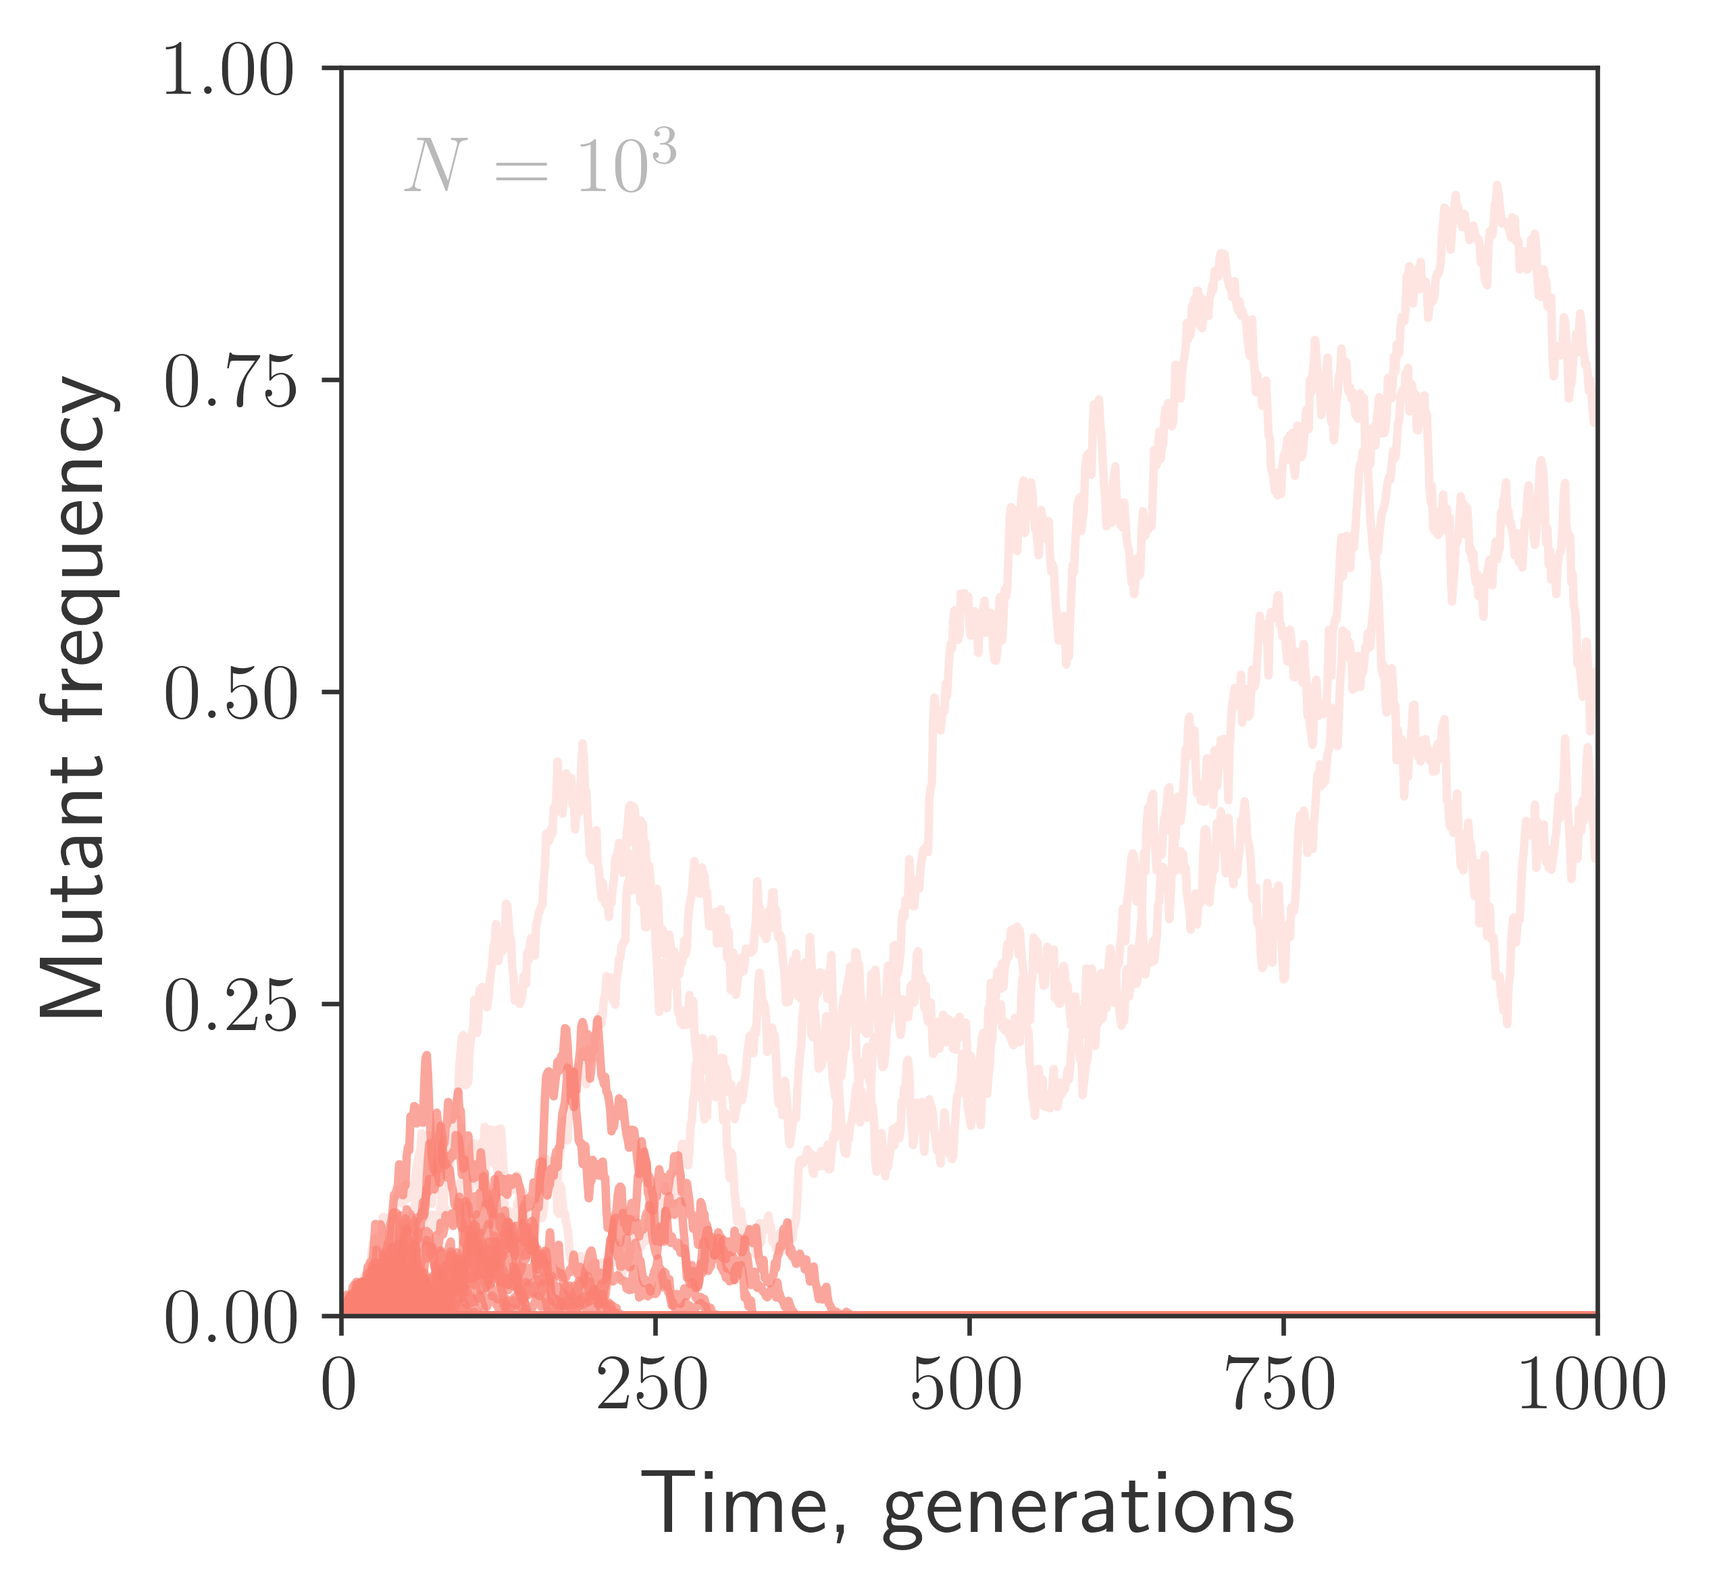
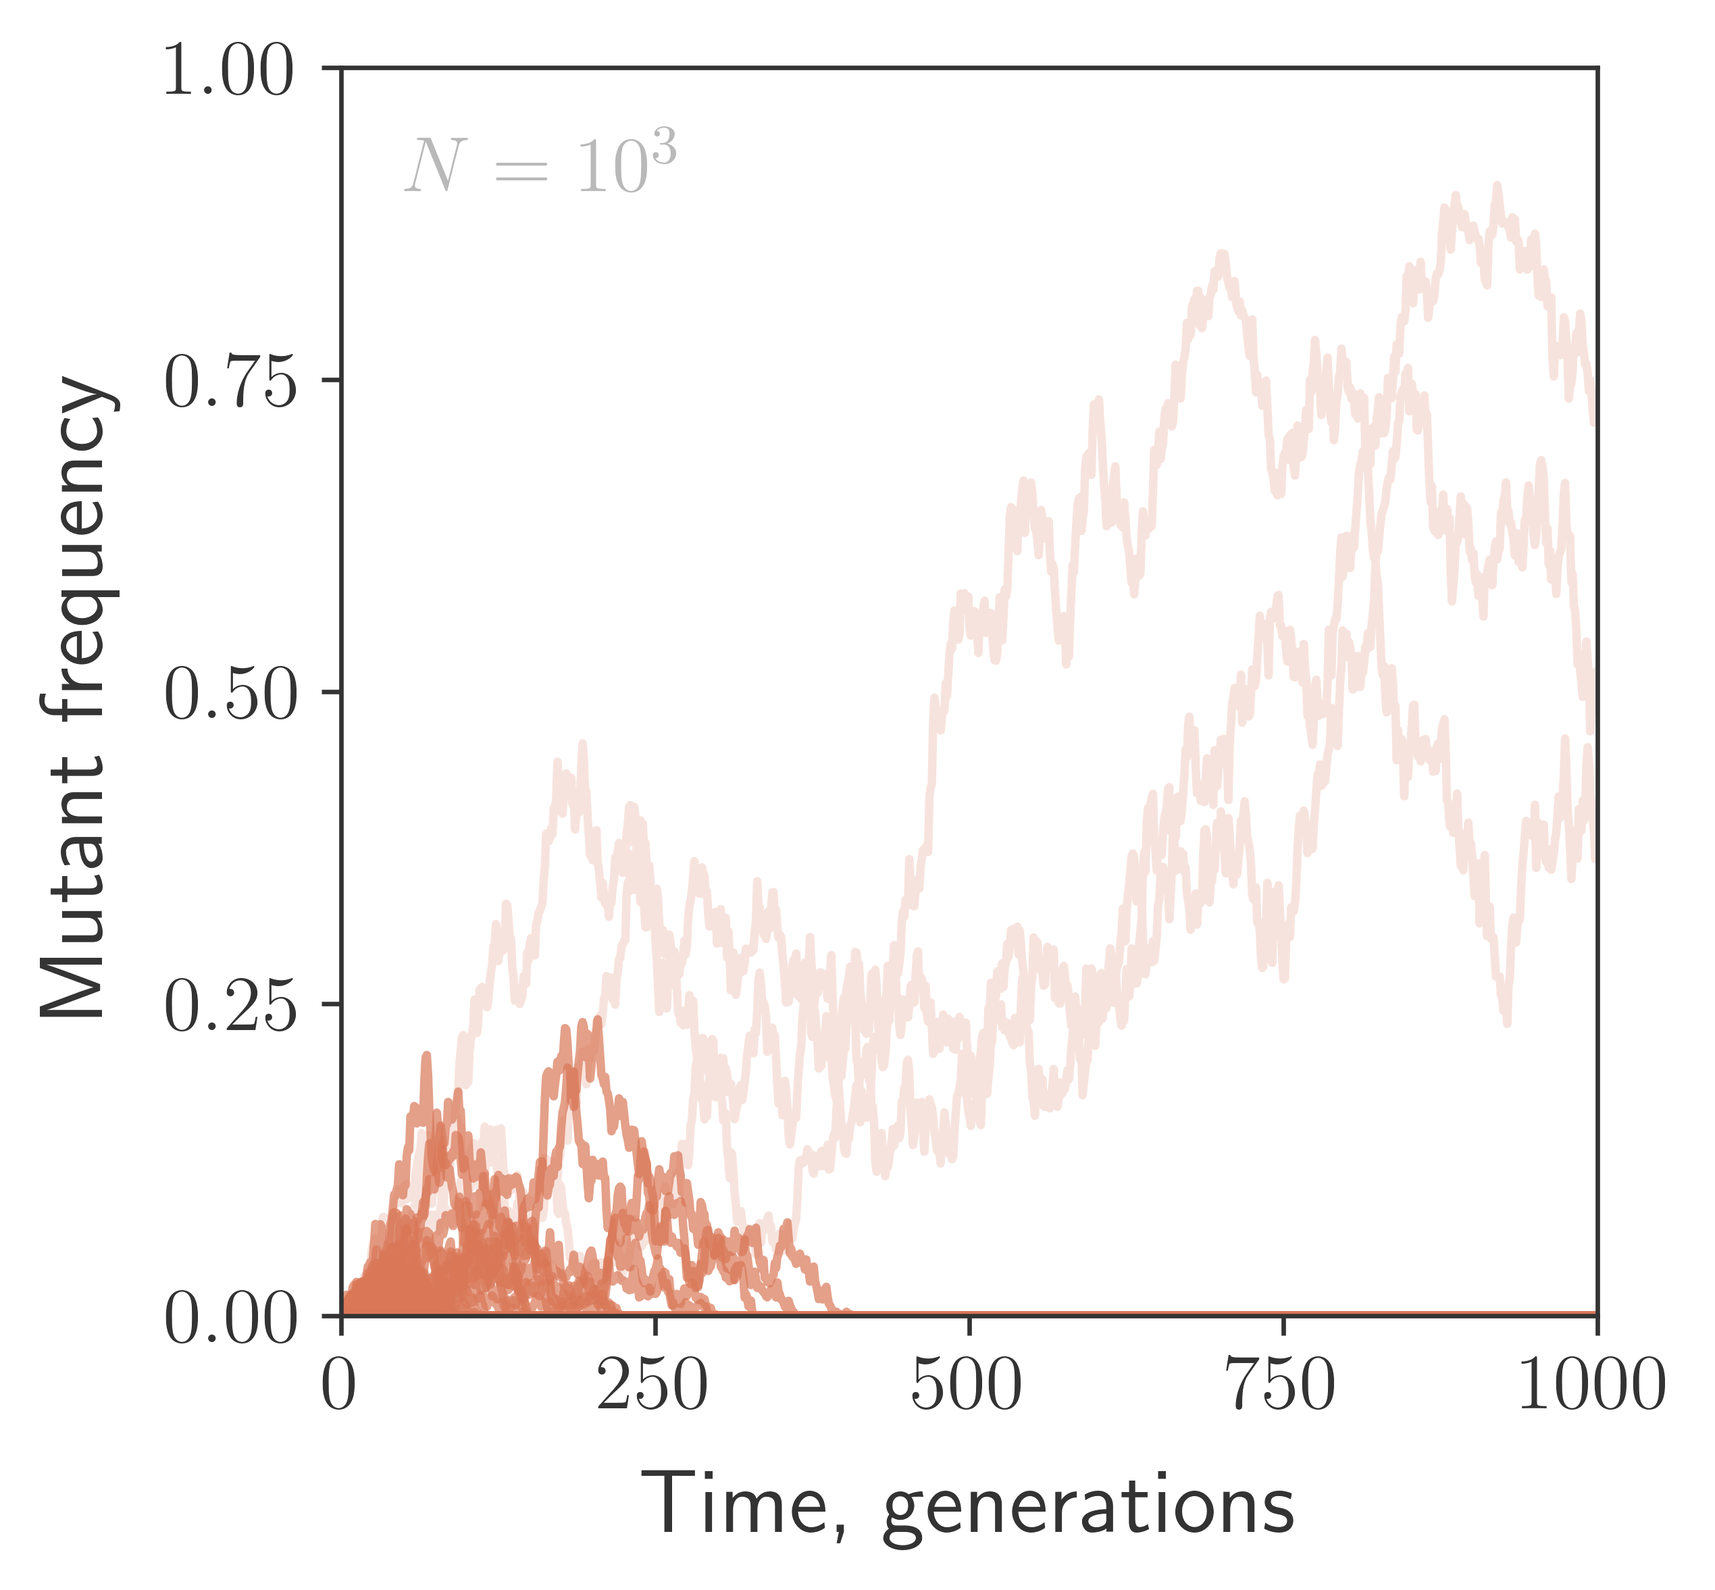
Site accent: Claude clay (#d97757) instead of the pink
Links, menu, buttons, the cursor, the defense page, the genome note, and the
heterozygosity figure (recoloured in place; the notebook draws it in clay too).
The temporary colour test page is gone.

Changed region(s): [[0.1867, 0.6512, 0.4667, 0.8373]]

diff --git a/phd-defense/index.html b/phd-defense/index.html
@@ -6,12 +6,12 @@
 <meta name="robots" content="noindex, nofollow">   <!-- keeps the page out of search results; delete this line to let search engines list it -->
 <title>Anastasia Lyulina | PhD Defense</title>
 <meta name="description" content="Anastasia Lyulina's PhD defense in Biology at Stanford University — join in person or online.">
-<link rel="stylesheet" type="text/css" href="/css/main.css?v=3">   <!-- bump v= when main.css changes, so phones fetch the new one instead of a saved copy -->
+<link rel="stylesheet" type="text/css" href="/css/main.css?v=4">   <!-- bump v= when main.css changes, so phones fetch the new one instead of a saved copy -->
 <link rel="icon" href="/img/bacteria.ico">
 <script>document.documentElement.classList.add('js');</script>
 <style>
   /* draft highlight on all text that may still change — delete these two rules to remove every highlight at once */
-  .ph { background: #fef2f1; border-radius: 4px; padding: 0 4px; -webkit-box-decoration-break: clone; box-decoration-break: clone; }
+  .ph { background: #fbefea; border-radius: 4px; padding: 0 4px; -webkit-box-decoration-break: clone; box-decoration-break: clone; }
   .ph .ph { background: none; padding: 0; }   /* no double highlight where one sits inside another */
 
   .lead { margin-bottom: 44px; }
@@ -21,11 +21,11 @@
   .thesis h2 { font-size: 24px; line-height: 1.25em; margin: 0 0 12px; }
   /* <button> pills look exactly like the site's link pills */
   .tabs .note-link, .pw, #replay, #skip, #lang { border: 0; margin: 0; font-family: 'Avenir', 'Avenir Next', 'Helvetica', 'Arial', 'Sans-Serif'; font-size: 0.95em;
-                     line-height: inherit; cursor: url("/img/cursor_pink.png"), auto !important; }
+                     line-height: inherit; cursor: url("/img/cursor_clay.png"), auto !important; }
   .tabs, .replay { font-size: 16px; font-family: 'Avenir', 'Avenir Next', 'Helvetica', 'Arial', 'Sans-Serif'; }
   .tabs { display: flex; flex-wrap: wrap; align-items: baseline; row-gap: 0.5em; }   /* room between the rows when the buttons wrap on small screens */
   .tabs .note-link { margin-right: 0.6em; }
-  .tabs .note-link[aria-expanded="true"] { background-color: #fef2f1; color: #fa8072; }   /* the open one stays pink, like the current page in the menu */
+  .tabs .note-link[aria-expanded="true"] { background-color: #fbefea; color: #d97757; }   /* the open one stays highlighted, like the current page in the menu */
   .tabs .full-text { font-size: 0.95em; margin-left: 0.2em; white-space: nowrap; }   /* same size as the pills */
   .panel { margin-top: 18px; animation: fade .35s ease; }
   @keyframes fade { from { opacity: 0; } to { opacity: 1; } }
@@ -40,7 +40,7 @@
   .rows .note-date.two-line { line-height: 1.1em; }   /* keeps the two-line label from opening a big gap below it */
   .rows .note-link { margin-left: 0.5em; margin-right: 0; }
   .rows .pw { font-size: 0.95em; margin-left: 0.5em; }   /* same gap as the other pills */
-  @media (hover: none) { .note-link:hover { background-color: #f4f4f4; color: #404040; } }   /* on touch screens a tapped button does not stay pink */
+  @media (hover: none) { .note-link:hover { background-color: #f4f4f4; color: #404040; } }   /* on touch screens a tapped button does not stay highlighted */
 
   /* the page opens with the animation, sized to fit the window under the menu; once the beads have landed the
      text fades in above them and the animation's box closes up to a strip around the row, with replay below it */
@@ -63,12 +63,12 @@
   .lang-switch { display: none; font-size: 16px; font-family: 'Avenir', 'Avenir Next', 'Helvetica', 'Arial', 'Sans-Serif'; margin: 0 0 24px; }
   .lang-switch.shown { display: block; animation: gate-in .6s ease; }
   .lang-switch #lang { margin-right: 0; line-height: normal; }   /* same height as the other pills (it would otherwise take the paragraph's taller line spacing) */
-  #lang[aria-pressed="true"] { background-color: #fef2f1; color: #fa8072; }   /* stays pink while the page is in Russian, like an open abstract pill */
+  #lang[aria-pressed="true"] { background-color: #fbefea; color: #d97757; }   /* stays highlighted while the page is in Russian, like an open abstract pill */
   @keyframes gate-in { from { opacity: 0; } }
   .gate > div + div { margin-top: 0.5em; }   /* a little room between the two lines */
   .gate .note-link, .no-js .note-link { margin-right: 0; }
   .gate-label { color: #333; margin-left: 0.5em; }
-  #unlock { border: 0; margin: 0; font-family: 'Avenir', 'Avenir Next', 'Helvetica', 'Arial', 'Sans-Serif'; font-size: 0.95em; line-height: inherit; cursor: url("/img/cursor_pink.png"), auto !important; }
+  #unlock { border: 0; margin: 0; font-family: 'Avenir', 'Avenir Next', 'Helvetica', 'Arial', 'Sans-Serif'; font-size: 0.95em; line-height: inherit; cursor: url("/img/cursor_clay.png"), auto !important; }
   #unlock[hidden], #unlock-form[hidden] { display: none; }
   #unlock-form { display: inline; }
   /* the password field is drawn like the site's pills (.note-link in main.css), and grows with what is typed */
@@ -76,8 +76,8 @@
                        width: 7em; padding: 1px 4px; box-sizing: content-box; margin: 0; border: 0; border-radius: 4px; background: #f4f4f4; color: #404040; outline: none;
                        -webkit-appearance: none; appearance: none; text-overflow: clip; }   /* no phone-specific field styling or extra inner padding */
   #unlock-form input::placeholder { color: #404040; opacity: 1; }
-  #unlock-form input:hover, #unlock-form input:focus { background: #fef2f1; color: #fa8072; }
-  #unlock-form input:hover::placeholder, #unlock-form input:focus::placeholder { color: #fa8072; }
+  #unlock-form input:hover, #unlock-form input:focus { background: #fbefea; color: #d97757; }
+  #unlock-form input:hover::placeholder, #unlock-form input:focus::placeholder { color: #d97757; }
   #unlock-form.wrong input { animation: shake .3s; }
   @keyframes shake { 25% { transform: translateX(-4px); } 75% { transform: translateX(4px); } }
   /* without JavaScript: a way to ask for the details, and the row of beads as a still picture */
@@ -282,7 +282,7 @@
   }
   addEventListener('resize', placeDots);
 
-  // по-русски (pink while chosen; click again for English): swaps the text (both languages are in the locked block) and the two public lines; not remembered, so the page always opens in English
+  // по-русски (highlighted while chosen; click again for English): swaps the text (both languages are in the locked block) and the two public lines; not remembered, so the page always opens in English
   let lang = 'en', replayStill = false;
   const setReplayLabel = () => { document.getElementById('replay').textContent = lang === 'ru' ? (replayStill ? 'посмотреть' : 'ещё раз') : (replayStill ? 'play' : 'replay'); };
   try { localStorage.removeItem('defense-lang'); } catch {}   // the page always opens in English (and forgets any choice an older version saved)
@@ -291,7 +291,7 @@
     document.documentElement.lang = l;
     document.title = l === 'ru' ? 'Анастасия Люлина | Защита диссертации' : 'Anastasia Lyulina | PhD Defense';
     const btn = document.getElementById('lang');
-    btn.setAttribute('aria-pressed', l === 'ru');   // always "по-русски": pink while chosen, click again for English
+    btn.setAttribute('aria-pressed', l === 'ru');   // always "по-русски": highlighted while chosen, click again for English
     document.querySelectorAll('[data-ru]').forEach(el => { if (!el.dataset.en) el.dataset.en = el.textContent; el.textContent = l === 'ru' ? el.dataset.ru : el.dataset.en; });
     document.querySelectorAll('[data-ru-placeholder]').forEach(el => { if (!el.dataset.enPlaceholder) el.dataset.enPlaceholder = el.placeholder; el.placeholder = l === 'ru' ? el.dataset.ruPlaceholder : el.dataset.enPlaceholder; });
     // what screen readers say (field label, animation description) follows the language too

diff --git a/css/main.css b/css/main.css
@@ -7,15 +7,15 @@ nav ul { font-size: 18px; line-height: 1.4em; font-family:'Avenir', 'Avenir Next
 nav ul li { display: inline-block; margin-right: 25px; margin-bottom: 15px}
 
 a { font-size: inherit; line-height: inherit; font-family: inherit; text-decoration: none; color: #888; }
-a:hover, a.active { text-decoration: none; color: #fa8072; }
-a { cursor: url("/img/cursor_pink.png"), auto !important; }
+a:hover, a.active { text-decoration: none; color: #d97757; }
+a { cursor: url("/img/cursor_clay.png"), auto !important; }
 
 h1 { font-size: 52px; font-family:'Albra', 'Tiempos', 'Times New Roman', 'Serif'; margin-bottom: 18px; overflow: visible !important; }
 h2 { font-size: 20px; line-height: 1em; font-weight: bold; font-family:'Albra', 'Tiempos', 'Times New Roman', 'Serif'; color: #333; margin-bottom: 6px; margin-top: 0px; overflow: visible !important; }
 p { font-size: 16px; line-height: 1.4em; font-family:'Avenir', 'Avenir Next', 'Helvetica', 'Arial', 'Sans-Serif'; color: #333; margin-bottom: 1em; margin-top: 0px; overflow: visible !important; }
 sup { vertical-align: top; position: relative; top: -0.25em; }
 .notes sup a { color: #888; }
-.notes sup a:hover { color: #fa8072; }
+.notes sup a:hover { color: #d97757; }
 .notes [id^="fn"] { scroll-margin-top: 1em; }
 
 ol { font-size: 16px; font-family:'Avenir', 'Avenir Next', 'Helvetica', 'Arial', 'Sans-Serif'; color: #333; margin-bottom: 6px; margin-top: 0px; overflow: visible !important; }
@@ -26,23 +26,23 @@ code { font-family: 'Courier New', Courier, monospace; font-style: normal; backg
 code-link { font-style: normal; background-color: #f4f4f4; color: #404040; padding: 1px 4px; border-radius: 4px; font-size: 0.95em; vertical-align: 0.05em; }
 /*.pub-note { font-size: 1em; font-family: 'Albra', 'Tiempos', 'Times New Roman', 'Serif'; font-style: italic; padding-left:2em; }*/
 .note-link { background-color: #f4f4f4; color: #404040; padding: 1px 4px; border-radius: 4px; font-size: 0.95em; vertical-align: 0.05em; text-decoration: none; margin-right: 0.9em; white-space: nowrap; }
-.note-link:hover { text-decoration: none; background-color: #fef2f1; color: #fa8072; }
+.note-link:hover { text-decoration: none; background-color: #fbefea; color: #d97757; }
 .notes-group { white-space: nowrap; display: inline-block; }
 /* Extra space before a row of buttons; it stays at the end of the text line, so buttons that wrap start flush left. */
 .nl-gap { padding-right: 0.4em; }
 .note-title { color: #000; }
-.note-title:hover { color: #fa8072; }
+.note-title:hover { color: #d97757; }
 .note-date { font-family: 'Avenir', 'Avenir Next', 'Helvetica', 'Arial', 'Sans-Serif'; font-size: 16px; color: #c1c1c1; }
 
-.authors-toggle:hover { color: #fa8072; }
+.authors-toggle:hover { color: #d97757; }
 
 hr { border: none; height: 1px; color: #333; background-color: #333; }
 .footnote { font-size: 14.4px; margin-bottom: 1.2em; }
 
 .github-link p { color: #c1c1c1; font-size: 0.95em; }
 .github-link a { color: #c1c1c1; font-size: 0.95em; font-family: 'Courier New', Courier, monospace; }
-.github-link a:hover { color: #fa8072; font-size: 0.95em; font-family: 'Courier New', Courier, monospace; }
-.github-link span { cursor: url("/img/cursor_pink.png"), auto !important; }
+.github-link a:hover { color: #d97757; font-size: 0.95em; font-family: 'Courier New', Courier, monospace; }
+.github-link span { cursor: url("/img/cursor_clay.png"), auto !important; }
 
 .figure-container { display: flex; flex-direction: column; align-items: center; gap: 1em; margin-bottom: 1.4em; text-align: left; }
 .figure-container img { width: 100%; max-width: 480px; height: auto; }

diff --git a/notes/2025-02-05-heterozygosity.html b/notes/2025-02-05-heterozygosity.html
@@ -14,7 +14,7 @@ title: On heterozygosity under selection
       <p>We forgo the aforementioned result and instead propose a heuristic argument<sup id="fnref2"><a href="#fn2">2</a></sup>. If mutation is infrequent (such that $0\rightarrow1$ flips occur at a total rate $N\mu \ll 1$ per unit time), the population comprises primarily wildtype alleles. The vast majority of mutant lineages are short-lived, vanishing after only a few generations due to drift. However, some will survive long enough to reach appreciable frequencies. These dynamics are transient: eventually, each mutant lineage will either go extinct or take over the population<sup id="fnref3"><a href="#fn3">3</a></sup>. The details of this process depend strongly on how mutation affects fitness.</p>
 			<div class="figure-container">
 					<div class="figure" style="flex:none; width:330px; max-width:100%">
-							<img src="/img/neutral_N=1e3.png" alt="Simulated trajectories of neutral mutations" />
+							<img src="/img/neutral_N=1e3.png?v=2" alt="Simulated trajectories of neutral mutations" />
 					</div>
 					<div class="legend">
 							<p class="legend">One thousand simulated mutant trajectories in a population of size $N=10^3$, with the mutation having no impact on fitness. Extinct trajectories are highlighted. <code-link><a href="https://github.com/alyulina/alyulina.github.io/blob/master/assets/wright-fisher_model.ipynb" target="_blank">code</a></code-link></p>

diff --git a/notes/2026-11-13-genome.html b/notes/2026-11-13-genome.html
@@ -7,9 +7,9 @@ title: On what is in a genome
 <style>
   .gc { margin: 1.4em 0 1.4em 0; font-family: 'Avenir', 'Helvetica', 'Arial', 'Sans-Serif'; color: #333; }
   .gc-species { font-family: 'Albra', 'Tiempos', 'Times New Roman', 'Serif'; font-size: 20px; font-weight: normal; line-height: 1.4em; padding: 0; margin: 0 0 0.8em 0; list-style: none; display: flex; flex-wrap: nowrap; gap: 25px; white-space: nowrap; }
-  .gc-species li { margin: 0; font-style: italic; color: #888; cursor: url("/img/cursor_pink.png"), auto !important; }
-  .gc-species li.on { color: #fa8072; }
-  .gc-species li:hover { color: #fa8072; }
+  .gc-species li { margin: 0; font-style: italic; color: #888; cursor: url("/img/cursor_clay.png"), auto !important; }
+  .gc-species li.on { color: #d97757; }
+  .gc-species li:hover { color: #d97757; }
   .gc-readout { min-height: 2.8em; margin-bottom: 0.5em; }
   .gc-readout .name { font-size: 16px; color: #000; white-space: nowrap; }
   .gc-row { display: flex; align-items: baseline; max-width: 420px; }

diff --git a/publications/index.html b/publications/index.html
@@ -9,8 +9,8 @@ title: Publications
 		.publications li { margin-bottom: 1em; }
 		.pub-journal { font-family: 'Albra', 'Tiempos', 'Times New Roman', 'Serif'; font-style: italic; }
 		.pub-abstract { font-size: 0.9em; color: #555; margin-top: 0.4em; }
-		.note-link.on { background-color: #fef2f1; color: #fa8072; }
-		button.note-link { border: 0; font-family: inherit; line-height: normal; cursor: url("/img/cursor_pink.png"), auto !important; }
+		.note-link.on { background-color: #fbefea; color: #d97757; }
+		button.note-link { border: 0; font-family: inherit; line-height: normal; cursor: url("/img/cursor_clay.png"), auto !important; }
 	</style>
 
 <div id="publishedSection" style="display:none">

diff --git a/_layouts/default.html b/_layouts/default.html
@@ -4,7 +4,7 @@
 		<meta charset="utf-8">
 		<meta name="viewport" content="width=device-width, initial-scale=1">
 		{% assign tab = page.tab_title | default: page.title %}<title>{{ site.title }}{% if tab %} | {{ tab }}{% endif %}</title>
-		<link rel="stylesheet" type="text/css" href="/css/main.css">
+		<link rel="stylesheet" type="text/css" href="/css/main.css?v=2">
 		<link rel="icon" href="/img/bacteria.ico">
 		<script>
   // Before MathJax runs, move punctuation that directly follows an equation ("$x$," or "$x$.")

diff --git a/TODO.md b/TODO.md
@@ -7,7 +7,7 @@ The page is in English and Russian (the по-русски button): the draft has
 - [ ] Fill in the placeholders in `_drafts/phd-defense/content.html`, in both the English and the Russian part: intro, thesis title, abstract and chapters, date, room, and the chair's name. In Russian, write the date like «1 марта 2027».
 - [ ] Russian part: think about how to talk about the science in Russian (the thesis title and the scientific terms). The usual Russian terms don't sound right, so it may be best to keep the title in English.
 - [ ] Russian part: update the St Petersburg time by hand once the date is set (in «Когда»). St Petersburg is 11 hours ahead of Stanford in winter, 10 in summer (US clocks change in March and November).
-- [ ] Remove the pink draft highlights: delete the two `.ph` rules at the top of `phd-defense/index.html`.
+- [ ] Remove the draft highlights: delete the two `.ph` rules at the top of `phd-defense/index.html`.
 - [ ] Zoom: put the meeting link and passcode in the "Join online" row and the «Удалённо» row of `_drafts/phd-defense/content.html` (link in `href`, passcode in `data-pw`), then relock. Ask whoever hosts to turn on the waiting room, or make a friend a co-host to let guests in.
 - [ ] Calendar: put the real date, time and place in both calendar blocks at the end of `_drafts/phd-defense/content.html` (English and Russian; placeholder values for now), then relock. Check "add to calendar" / «в календарь» on an iPhone (adds the calendar file) and on an Android phone (opens Google Calendar with the event filled in).
 - [ ] Pick the final page password before the invitations go out (changing it later locks out guests who have the old one).
